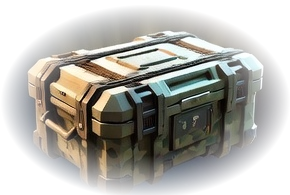
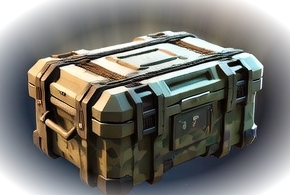
Keep the gift crate's look identical after claiming; sharpen its cutout
The claimed state no longer dims/greys the crate or stops its bob
animation — it stays visually the same as before claiming, only the label
switches from OPEN to CLAIMED, per request.

Also redid the crate's alpha cutout: the previous radial fade started
eating into the crate's own body near the edges, making it look like it
was sinking into the background. Pushed the fade to start much further out
(0.55 -> 0.82 of the crop radius) so the crate itself stays fully solid
and only the outer glow/vignette blends into the page background.

diff --git a/artifacts/game-lobby/src/Lobby.tsx b/artifacts/game-lobby/src/Lobby.tsx
@@ -3774,8 +3774,7 @@ function GiftBox() {
           cursor: available ? "pointer" : "default",
           WebkitTapHighlightColor: "transparent",
           transform: pressed && available ? "scale(0.94)" : "scale(1)",
-          transition: "transform 120ms ease, filter 300ms ease",
-          filter: available ? "none" : "grayscale(0.85) brightness(0.55)",
+          transition: "transform 120ms ease",
         }}
       >
         <img
@@ -3785,14 +3784,14 @@ function GiftBox() {
           style={{
             width: "clamp(150px, 36vw, 260px)",
             display: "block",
-            animation: available ? "gift-bob 2.4s ease-in-out infinite" : "none",
+            animation: "gift-bob 2.4s ease-in-out infinite",
           }}
         />
       </button>
       <div
         style={{
           marginTop: 2,
-          color: available ? "#fff" : "rgba(255,255,255,0.45)",
+          color: "#fff",
           fontFamily: "'Rajdhani', sans-serif",
           fontWeight: 700,
           fontSize: "clamp(13px, 3vw, 17px)",
